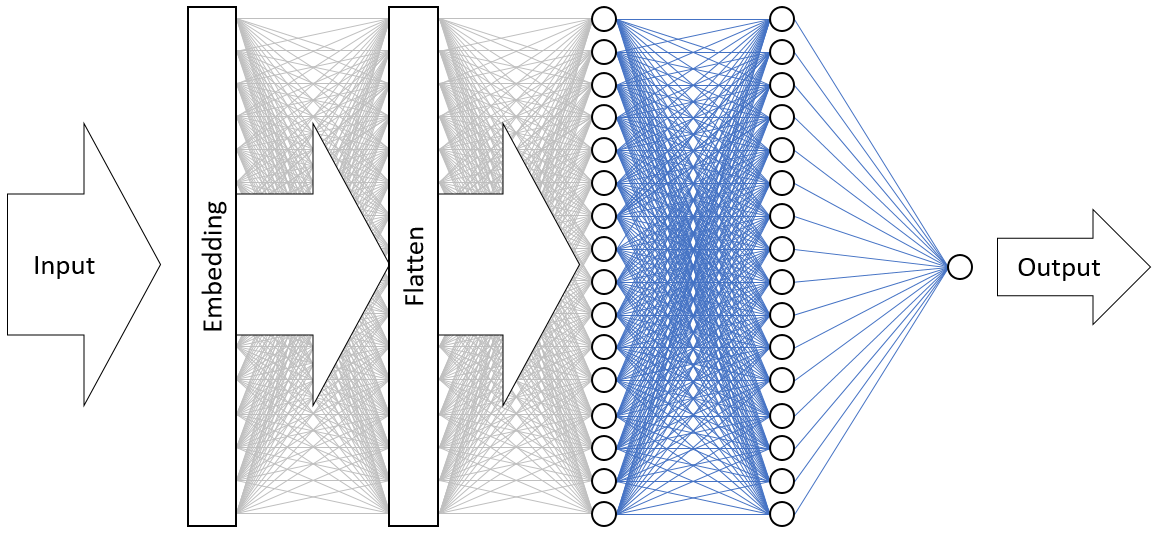
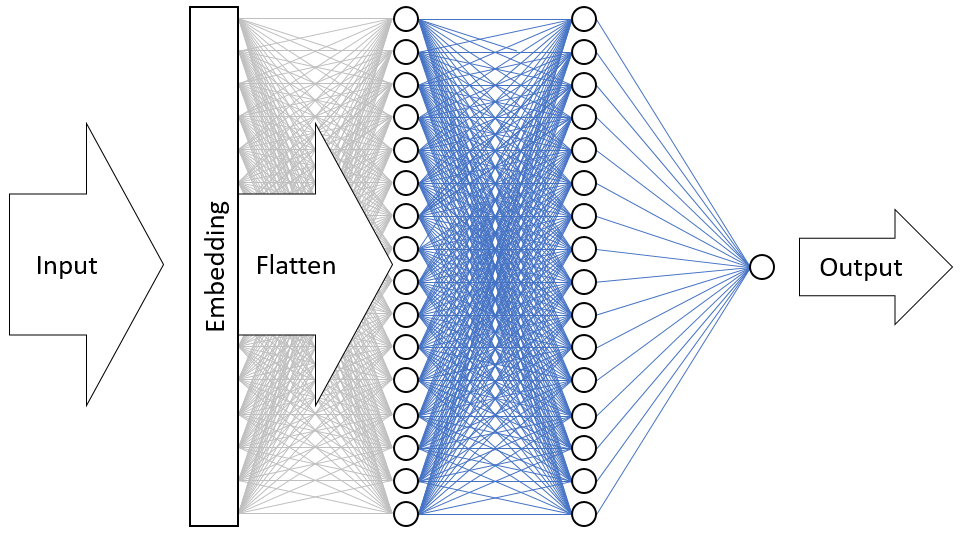
Updated Keras lab

diff --git a/Labs/Content in draft/Keras/Keras.md b/Labs/Content in draft/Keras/Keras.md
@@ -281,11 +281,13 @@ In order to train a neural network, you need data to train it with. Rather than 
 
 	The next several statements add layers to the model. First is an [embedding layer](https://keras.io/layers/embeddings/), which is crucial to neural networks that process words. The embedding layer essentially maps many-dimensional arrays containing integer word indexes into floating-point arrays containing fewer dimensions. It also allows words with similar meanings to be treated alike. A full treatment of word embeddings is beyond the scope of this lab, but you can learn more by reading [Why You Need to Start Using Embedding Layers](https://towardsdatascience.com/deep-learning-4-embedding-layers-f9a02d55ac12). If you prefer a more scholarly explanation, refer to [Efﬁcient Estimation of Word Representations in Vector Space](https://arxiv.org/pdf/1301.3781.pdf). The call to [Flatten](https://keras.io/layers/core/#flatten) following the addition of the embedding layer reshapes the output for input to the next layer.
 
+	The next three layers added to the model are [dense](https://keras.io/layers/core/#dense) layers, also known as *fully connected* layers. These are the traditional layers that are common in neural networks. Each layer contains *n* nodes or [neurons](https://en.wikipedia.org/wiki/Artificial_neuron), and each neuron receives input from every neuron in the previous layer, hence the term "fully connected." It is these layers that permit a neural network to "learn" from input data by iteratively guessing at the output, checking the results, and fine-tuning the connections to produce better results. The first two dense layers in this network contain 16 neurons each. This number was somewhat arbitrarily chosen; you might be able to improve the accuracy of the model by experimenting with different sizes. The final dense layer contains just one neuron because the ultimate goal of the network is to predict one output — namely, a sentiment score from 0.0 to 1.0.
+
+	The result is the neural network pictured below. The network contains an input layer, an output layer, and two hidden layers (the dense layers containing 16 neurons each). For comparison, some of today's more sophisticated neural networks have more than 100 layers. One example is [ResNet-152](https://blogs.microsoft.com/ai/microsoft-researchers-win-imagenet-computer-vision-challenge/) from Microsoft Research, whose accuracy at identifying objects in photographs sometimes exceeds a human's capacity to do so. You could build ResNet-152 with Keras, but you would need a cluster of GPU-equipped computers to train it from scratch. 
+
 	![Visualizing the neural network](Images/neural-network.png)
 
 	_Visualizing the neural network_
-
-	The next three layers added to the model are [dense](https://keras.io/layers/core/#dense) layers, also known as *fully connected* layers. These are the traditional layers that are common in neural networks. Each layer contains *n* nodes or [neurons](https://en.wikipedia.org/wiki/Artificial_neuron), and each neuron receives input from every neuron in the previous layer, hence the term "fully connected." It is these layers that permit a neural network to "learn" from input data by iteratively guessing at the output, checking the results, and fine-tuning the connections to produce better results. The first two dense layers in this network contain 16 neurons each. This number was somewhat arbitrarily chosen; you might be able to improve the accuracy of the model by experimenting with different sizes. The final dense layer contains just one neuron because the ultimate goal of the network is to predict one output — namely, a sentiment score from 0.0 to 1.0.
 
 	The call to the [compile](https://keras.io/models/model/#compile) function "compiles" the model by specifying important parameters such as which [optimizer](https://keras.io/optimizers/) to use and what [metrics](https://keras.io/metrics/) to use to judge the accuracy of the model in each training step. Training doesn't begin until you call the model's `fit` function, so the `compile` call typically executes quickly.
 
